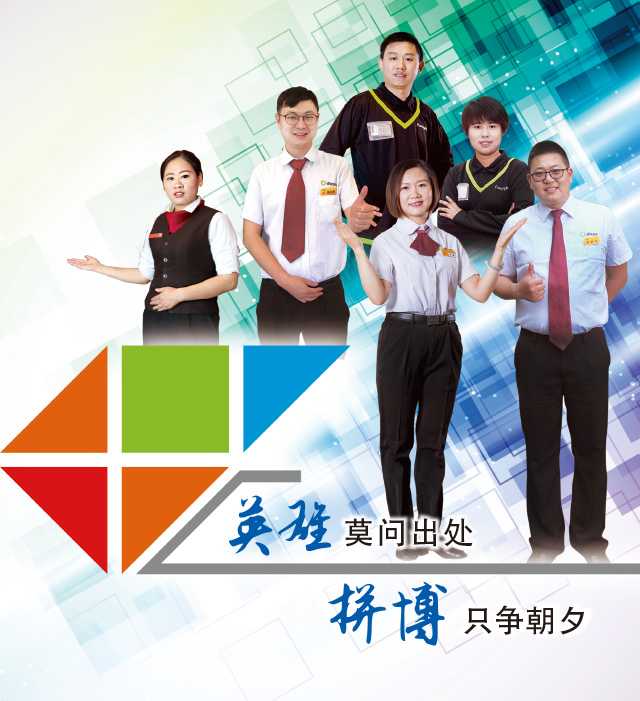
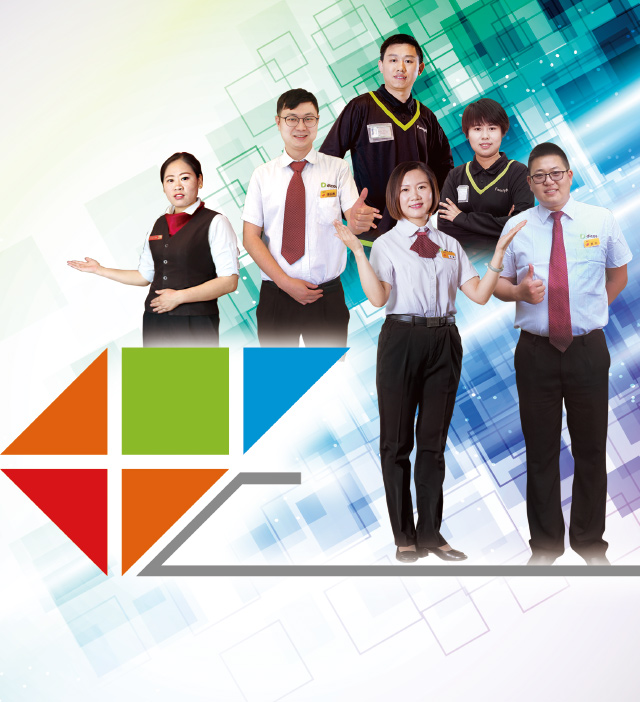
完成修改意见(关爱--没给到修改稿)

diff --git a/1-7.html b/1-7.html
@@ -7,14 +7,31 @@
                 </div>
                 <div class="slide_8">
                     <div class="cont">
-                        <img src="./images/slide_9_top_cont_2.jpg">
-                        <!-- <div class="cont_btm">
+                        <img src="./images/slide_9_top_cont_4.jpg">
+                        <div class="cont_btm">
                             <img src="images/slide8_cont_top_2.png" style="display:block;text-indent:0;margin:10px 0;" alt="" />
                              <p>“你知道公司为什么会推荐你做采访吗？”“我最近没惹是生非啊，挺太平的。可能是因为3月份尊享卡办得比较好，每周三疯狂日一天最少办20多张，最多有40来张。”让人忍俊不禁的苗翠平是个不折不扣的乐观主义，在她的世界，一切都很简单：工作就是图个开心，公司需要什么她做好传达，员工帮她实现，做不到第一也不能拖后腿，尽力就好。生活上最大的慰藉就是父母身体健康、儿子快乐成长。</p>
-                        </div> -->
+                        </div>
                     </div>
                 </div>
+                <div class="cont_1 cont_1_">
+                    <p class="slide_9_title bac_blue" style="background:#87a7c3;width:55%;">放不下的“破店”</p>
+                    <p class="slide_9_text">
+                        在别人眼中，葛洲坝门店是个“破店”，不但窝在商务楼里，而且租金高得惊人，不熟悉的人怎会知道在这片层层幢幢的商务楼里藏着一个全家。2010年，当翠平还是1字打头的年龄便加入了全家,后来有机会往公司内部晋升，“可是那时年轻气盛，又很情绪化，自己都没办法控制自己，怎能领导别人呢？”翠平说以自己风里火里的性格不适合在公司发展，这才选择了加盟。
+                    </p>
+                    <p class="slide_9_text">
+                        “加盟第一年，还没有收心，反正是一人吃好全家吃饱，挣多少就花多少，也没很大的责任心，可能是之前在直营店里做了几年教育训练店长，好日子过惯了。”加盟后的第二年，因为结婚生子，翠平瞬间像换了个人似的，她意识到背后有个家庭需要担起责任，于是就拉了她先生胡东延也加入全家，后来复数第二家店后请他负责看管另一家门店。不管外人怎样看待，翠平始终对门店怀有深厚的感情，“平均每天来客数1300左右，基本是在商务楼上班的顾客。日积月累下来，他们已经养成了习惯，一日两餐再加下午茶，都会来全家。所以很多人已经像 朋友那般熟悉了。”
+                    </p>
+                    <p class="slide_9_text">
+                        葛洲坝店比较特殊，早午尖峰非常繁忙，晚上又很清闲。又因为地处办公楼内，大楼空调一到晚上5、6点就关闭了，到了夏天，室温可达40度以上。由于没有悬挂外机的地方，店里无法安装空调。翠平唯一能做的就是放几个电扇，然后一箱箱地买饮料给晚班店员消暑解渴。“和同事们都很有默契，有的跟我快3年了，还有兼职学生，她每年寒暑假、业余时间都来实习。前些天我还在跟主管说，希望合作报酬能稳定下去，那就可以给大家涨工资啦。” 
+                    </p>
+                    <p class="slide_9_text slide_9_text_hidden">
+                        当我质疑脸庞还略显稚嫩的翠平以她火爆的个性，如何在服务行业立足？她笑着说道：“我的脾气这几年已经改好了很多，可能是因为有了孩子，再加上感觉自己赶不上父母年迈的速度，变得成熟了许多。<img src="images/slide_9_top_cont_5.jpg" class="slide_9_top_cont_5" alt="" />做这个行业，如果不是这么没心没肺的，很难做下去。有时碰到顾客骂员工，可以骂上十几分钟，她们又不能回嘴，只能躲到后场来哭。”这个时候，翠平会买杯奶茶来安慰员工，和员工们讲，客人骂你们，你们就到后场来骂她，发泄出来就好。
+                        
+                    </p>
+                </div>
                 <div class="cont_1">
+                    <img src="./images/slide_9_top_cont_2.jpg">
                     <p class="slide_9_title bac_blue" style="background:#87a7c3;width:55%;">提得起的幸福</p>
                     <img src="images/slide_9_top_cont_2.png" class="slide_9_top_cont_3_" alt="" />
                     <p class="slide_9_text" style="margin-top:-30px;">
@@ -29,19 +46,6 @@
                     <p class="slide_9_text">
                         对翠平来说，除了工作，所有时间都扑在孩子身上了，去哪里都要带着，和员工们的团队建设也变成了家庭聚会。她希望等全家加盟店数封顶后，有朝一日可以加盟德克士，“想归想，不过眼前先做好目前的三家店。自己努力多少就会得到怎样的成绩，这是成正比的。”
                     </p>
-                    <img src="images/slide_9_top_cont_3.jpg" alt="" />
-                    <p class="slide_9_title bac_blue" style="background:#87a7c3;">关于工作伙伴：将心比心</p>
-                    <p class="slide_9_text">
-                        在我看来，员工在餐厅上班其实都是非常单纯的，多站在他们的角度沟通，了解他们需求，简单归纳就是四个字：将心比心。年轻的员工伙伴对学习新知识获取经验感兴趣，那我就多放权给他们做一些简单的餐厅管理工作，让他们有参与满足感。一些内场的大哥大姐们需要养家糊口，经济压力较大，我就多给班，保证他们的薪资有竞争力。这样自然而然，大家各司其职，管理起来、沟通起来就很顺畅了。
-                    </p>
-                    <p class="slide_9_text">
-                        以前我在直营系统，那是一份职业，平时的接人待物都是从上而下执行，没有太多自己的想法。现在内创了，便拥有了自己一份小小的事业，董事长说，当老板者强，我也是在签下离职报告的那一刻起，才愈发体会这句话的深意。有许多创造性的想法，都会不打折扣地用心行动，更何况餐厅近30人的团队要发展，这本身就是一份沉甸甸的责任。在这责任面前，吾将上下而求索。
-                    </p>
-                    <p class="slide_9_text">
-                        一家餐厅的氛围，员工伙伴们的工作状态全取决于餐厅的店长，例如在“卡友日，节假日”等需要挑战高日商时，怎样将餐厅伙伴工作状态调整最佳状态是餐厅店长业务水平的最基本体现。
-                    </p>
-                    
-                    
                 </div>
             </div>
 <!--             <div class="bot swiper-slide swiper-slide-s">

diff --git a/1-9-1.html b/1-9-1.html
@@ -52,9 +52,59 @@
                         <p class="slide_11_text">
                            每一个特殊的节日，我要求自己必须力所能及为每一位员工送上节日祝福，十五的元宵、中秋的月饼、端午的粽子、冬至的饺子、年三十的团圆饭、圣诞的平安果，我都会精心准备。还有必不可少的定期季活动，都是增强团队凝聚力的好办法。
                         </p>
-                    
-                    
                 </div>
+
+                <!-- 合并部分 -->
+                <style type="text/css">
+                    .slide_11 .cont_1 .slide_11_title{
+                        width:86%;
+                    }
+                </style>
+                <div class="cont_1 cont_2">
+                    <img src="images/slide_12_2_1.jpg" alt="" /> 
+    
+                    <div class="box7">
+                        <p class="slide_11_title slide_11_title1 bac_blue3" style="margin-top:0;">有家人帮你一起打理门店吗？ </p>
+                        <p class="slide_11_text">
+                            员创至今主要是我一人在独立经营，我团队的成员们在鼎力协助我。当初员创的初始资金还是用积攒的购房首付款支付的，想趁年轻多折腾折腾，所以当自己手头宽裕些，我又员创了第二家餐厅，所以目前我还没能买房。
+                        </p>
+                        <p class="slide_11_text">
+                            父母年迈且身体不是很好，目前还生活在老家，我呢，现在也还是单身，所以就只能靠自己喽。当然，我也希望通过自己的努力，能够为家人创造更好的生活条件，到时候一家人可以在西安生活，他们能在精神上支持我，在生活上帮助我，那些后顾之忧解决了，我工作肯定更带劲、更卖力。
+                        </p>
+                    </div> 
+                    <p class="slide_11_title slide_11_title1 bac_blue3" style="width:;">与竞争对手相比，我们有哪些独特之处？</p>
+                    <div class="box8">
+                        <p class="slide_11_text">
+                           由于肯德基进入陕西市场早于德克士，所以肯德基的店数较我们还是有优势的，而相较麦当劳，德克士的店数优势就比较明显了，我们是他们的3倍还多。德克士在陕西的知名度还是比较高的，尤其在火车站，我们开设了4家餐厅，让德克士成为家喻户晓的品牌。
+                        </p>
+                        <p class="slide_11_text">
+                           单店特许加盟也是德克士的一大特色，加盟政策德克士更胜一筹。肯德基的加盟其实就是转让成熟的餐厅，在陕西，麦当劳目前还没有放开加盟，即便区域代理也都还没有。而德克士自1997年进入市场，开辟了一条单店特许加盟的道路，无数品牌竞相模仿。正是这样的单店特许加盟，让集团吸收了很多有资金实力、经营理念正确的合作伙伴，借助他们优势的地缘关系，德克士在许多战略口岸、重要交通枢纽完成了插旗，也是他们和集团一起携手将德克士开遍了中国大地。
+                        </p>
+                        <p class="slide_11_text">
+                           在产品方面，我们的米饭、脆皮炸鸡、鸡排、魔法鸡块、薯条，都成为了竞争对手无法模仿和超越的特色产品。给力的总部行销让德克士的产品品类越来越丰富，也越来越迎合年轻大众群体，“好看、好吃、好玩”，受到了大众的一致好评。为了避免吃货们的审美疲劳，德克士加大了产品的推陈出新，根据季节状况，每月都会上市新品。
+                        </p>
+                    </div>
+                    <p class="slide_11_title slide_11_title1 bac_blue3">是什么让你保持饱满的工作状态？</p>
+                    <p class="slide_11_text">
+                       首先让自己在这个城市立足，解决基本的温饱，可以有尊严地活下去。其次，提高生活品质，为自己、为家人创造更好的生活条件，不需要富足，但要够用，买一间房子，让父母在自己身边可以安享晚年。
+                    </p>
+                    <p class="slide_11_text">
+                       更重要的是，在自己擅长且感兴趣的领域充分调动自己工作的积极性，发挥自己的优势，施展才能，实现人生价值。最后，在自己力所能及的范围里，从点滴做起，帮助那些和我一起打拼的人。
+                    </p>
+                    <p class="slide_11_title slide_11_title1 bac_blue3">为什么会在德克士坚持了这么多年？</p>
+                    <div class="box9">
+                        <p class="slide_11_text">
+                           毕业后我先后经历过几份工作，有了在德克士兼职的经验，总是习惯性地将之作为标杆来比较，“这个工作氛围不好”、“这个没有发展前景”、“这个公司没有人情味”……在几番思量后，决定与德克士再续前缘，于是应聘了公司的储备干部，成为了一名兼职时羡慕的“领导”。在德克士，我接受了各项系统的培训，理论知识、实操以及管理课程，这里有完善的晋升机制和合理的薪酬制度，同事之间真诚、友善，让输在起跑线的孩子也可以参与公平竞争。
+                        </p>
+                        <p class="slide_11_text">
+                           德克士让我提升了专业能力、沟通能力、处理突发事件的能力，也提升了我的数据分析能力和人才培养及组织能力。三年前通过内部竞争，我有幸成为了第一批员工内创人员，从一名打工仔转变成一个“老板”，接触了更多的人、也收获了更多的机会，曾经仰望的董事长现在竟有机会可以与他一起用餐、发送信息，就像做梦一样。
+                        </p>
+                        <p class="slide_11_text">
+                           说到底，德克士培养了我的综合素质和核心竞争力，我找到了施展自己的平台，也可以有能力带一个团队，并成为团队的核心人物，内心获得了极大的满足感和成就感。<img src="images/slide7_2.png" class="slide7_2" alt="">
+                        </p>
+                    </div>
+                </div>
+
             </div>
 <!--             <div class="bot swiper-slide swiper-slide-s">
                 <img src="images/slide_5_bot.jpg" class="slide_5_bot" alt="" />

diff --git a/1-3.html b/1-3.html
@@ -36,7 +36,46 @@
                     <p class="slide_5_text slide_5_text1">
                         因为是特殊通路，门店的品项有局限，想提高日商，必须杀出另一条血路。“有一天中午，新天地的一家餐厅来全家订了30份午餐，向餐厅经理了解后，我发现餐厅员工每天都需要到外面解决午餐，自然而然，我和他们达成了提供外卖的合作。”这一送就是两年多，每天60份外卖，逢年过节、刮风下雨照送不误，所有外送都是杨军和爸爸亲力亲为，日商一下子提高到了2万多。“这些都是从店里走出去额外做的日商。” 
                     </p>
-
+                <div class="slide_6">
+                    
+                    <div class="cont">
+                        <img src="images/slide_6_bac.jpg" alt="" />
+                    </div>
+                    <div class="swiper-slide slide_7" data-hash="">
+                        <div class="" id="">
+                            <div class="">
+                                <div class="">
+                                    <div class="cont_1">
+                                        <p class="slide_7_title bac_green">商场门店里的“卡王”和“卡后”</p>
+                                        <p class="slide_7_text">
+                                            相比地铁站店，杨军的另一家位于商场的门店也比较特殊，跟着商场的营业时间早10点到晚10点营业。“虽然营业时间短，但是日月光商场店的日商是我加盟的这几家店里最好的，因为这家店铺基本上以吃的为主，附近工作的白领经常会来。而且流行的东西都很好售卖，果汁饮料、酸奶等产品特别受顾客的喜欢。”杨军每天呆的时间最长的就是这家门店，“比如冰淇淋，即使在冬季每天都能卖到100支，天气好的话可以卖到300支一天。最新的冰沙也卖得不错，由于限量，很容易卖完，很多顾客还特地来找冰沙。”
+                                        </p>
+                                        <p class="slide_7_text">
+                                            在门店的柜台一侧，摆放着几十张尊享卡，还有一些小海报分解说明购买100元尊享卡可以有哪些得益。“以前觉得每天推尊享卡，哪里会有这么多人办理呢？”一开始，杨军对尊享卡的推动并没有抱太大的信心，“后来慢慢发现尊享卡对日商拉动很大，4月份平均18张一天，到周三办理数量更多。你想想，一天来客数1000的话，只要想办法，总有会成功的。我们还在尊享卡的海报位置做了特别设置，是顾客选择商品的必经之路。”
+                                        </p>
+                                        <p class="slide_7_text">
+                                            刚开始，店铺的尊享卡都是杨军一手包办，后来他慢慢教会了员工一些技巧，现在店里有员工被戏称为“卡王”和“卡后”，最好的时候每个人一天可以办20张。杨军在店铺营造的氛围就是让员工感到尊享卡对店铺日商成长影响很大，对“卡王”和“卡后”也给予相应的奖励。
+                                        </p>
+                                        <p class="slide_7_title bac_green">家人和员工，光鲜背后的支柱</p>
+                                        <p class="slide_7_text">
+                                            <img src="images/slide_7_1.png" class="slide_7_1" alt="" />
+                                            算起来，杨军加盟全家已有9年多，“最苦的时候是过年期间，人手紧缺，都是自己一个人扛下来。现在熬过来了，全家总动员，我老婆、我弟弟都来帮忙管店。爸爸现在退居二线，帮我做一些银行入账的事，家人是我背后永远的支柱。”人员流动大也曾是杨军最大的困扰，“刚开始我在员工管理上经验不够，经常有做了几个月就辞职的员工，后来我总结经验，也看了一些管理书，发现应该切身了解员工的一些难处，根据员工情况做相应的排班调整。员工是老板最的一些难处，根据员工情况做相应的排班调整。员工是老板最大的财富，便利店看着光鲜有趣，其实背后需要员工非常细心，如何培养、留住员工，老板的责任重大。”
+                                        </p>
+                                        <p class="slide_7_text">
+                                            每加盟一家新店，意味着又跨上一个台阶，杨军的目标并未止于5家门店。他现下的重点是在管理角色上花更多精力，管理好店铺，从店内走到店外。也要花更多心思在员工沟通上，让店铺能够稳定运转。
+                                        </p>
+                                        <p class="slide_7_text">
+                                            “从刚开始抱着试试看的心态，至今9年多了，加盟全家，对自己改变真的很大。从对便利店的一无所知，到现在也见证了全家品牌的发展和布局，从最初的明星产品关东煮和现磨豆浆，到现在湃客咖啡和冰沙杯，商品越来越多元化，让我学习到很多。我想通过自己的经历，告诉那些想创业的年轻人，全家是一个非常好的平台，还有无论做什么事，坚持、认真、拥有良好的心态至关重要。”作为最早在上海加盟5家店，又是第一个加盟地铁站店的加盟伙伴，杨军的内心始终保持热情，充满希望。<img src="images/slide7_2.png" class="slide7_2" alt="" />
+                                        </p>
+                                        <img src="images/slide_7_top_bac.png" class="slide_7_top_bac" alt="" />
+                                        <img src="images/slide_7_top_bac1.png" class="slide_7_top_bac1" alt="" />
+                                    </div>
+                                </div>
+                            
+                            </div>
+                        </div>
+                    </div>
+                </div>
 
 
                 </div>

diff --git a/1-8.html b/1-8.html
@@ -6,7 +6,8 @@
                     <img src="images/fmgs_logo.png" alt="" />
                 </div>
                 <div class="cont">
-                    <img src="images/slide_10_top.jpg"><!-- 
+                    <img src="images/slide_10_top.jpg">
+                    <img src="images/slide_9_top_cont_3.jpg" alt="" /><!-- 
                     <div class="cont_btm">
                          <p class="slide_10_text">
                           钱春霞个子小小的，却有一双与身高不符的大手。她常对人说，个子不高是因为12岁就从中学辍学，正是长个子的时候，她却常常挑着两大桶水在田里做农活、包揽家中的家务，而一双大手也是因为这样而造成的。16岁时，春霞离开家乡来到上海打工，先找了份送快递的工作，后来她的小妹也到上海找工作，春霞就带着她一起到全家应聘，结果两人都被录取了。
@@ -18,7 +19,19 @@
                                 <img src="images/slide_11_img1.png" alt="" />
                             </div> -->
                             <div class="slide_11_text_ slide_11_text_bot">
-                                <p class="slide_11_title bac_blue1">关于家人：鼎力相助</p>‘
+                                <p class="slide_11_title bac_blue1 slide_bar_width">关于工作伙伴：将心比心</p>
+                                <div class="bac_box4">
+                                    <p class="slide_11_text">
+                                        在我看来，员工在餐厅上班其实都是非常单纯的，多站在他们的角度沟通，了解他们需求，简单归纳就是四个字：将心比心。年轻的员工伙伴对学习新知识获取经验感兴趣，那我就多放权给他们做一些简单的餐厅管理工作，让他们有参与满足感。一些内场的大哥大姐们需要养家糊口，经济压力较大，我就多给班，保证他们的薪资有竞争力。这样自然而然，大家各司其职，管理起来、沟通起来就很顺畅了。
+                                    </p>
+                                    <p class="slide_11_text">
+                                        以前我在直营系统，那是一份职业，平时的接人待物都是从上而下执行，没有太多自己的想法。现在内创了，便拥有了自己一份小小的事业，董事长说，当老板者强，我也是在签下离职报告的那一刻起，才愈发体会这句话的深意。有许多创造性的想法，都会不打折扣地用心行动，更何况餐厅近30人的团队要发展，这本身就是一份沉甸甸的责任。在这责任面前，吾将上下而求索。
+                                    </p>
+                                    <p class="slide_11_text">
+                                        一家餐厅的氛围，员工伙伴们的工作状态全取决于餐厅的店长，例如在“卡友日，节假日”等需要挑战高日商时，怎样将餐厅伙伴工作状态调整最佳状态是餐厅店长业务水平的最基本体现。
+                                    </p>
+                                </div>
+                                <p class="slide_11_title bac_blue1 slide_bar_width">关于家人：鼎力相助</p>‘
                                 <!-- 有背景图 -->
                                 <div class="bac_box">
                                     <p class="slide_11_text">
@@ -29,7 +42,7 @@
                                     </p>
                                 </div>
                                 <div class="bac_box1">
-                                    <p class="slide_11_title bac_blue1">关于提升业绩：会员、外送和营业时间</p>
+                                    <p class="slide_11_title bac_blue1 slide_bar_width">关于提升业绩：会员、外送和营业时间</p>
                                     <p class="slide_11_text">
                                         首先必须得说的是董事长在巡回时所讲到的“11511”，我们梨园餐厅截至5月已办理2.2万张集享卡，会员刷卡业绩占到六成以上，会员刷卡TC占比也接近60%，当月的兑分比例近70%，人均购买5元。以上五项指标的达成是我们餐厅累计至4月成长近17%最有利的保证。
                                     </p>
@@ -40,7 +53,7 @@
                                         最后是深耕时段经营。发掘商圈的机会，并付诸行动。我们梨园餐厅周围都是大型社区，社区居住的人们大多数是在北京城里上班，晚上才回到梨园居住。晚餐的业绩明显要比午餐业绩好，餐厅打烊后还有顾客陆续进店询问点餐，所以我认为夜宵是有机会的，于是向公司申请将营业时间由晚上22点延长至凌晨1点，效果立竿见影，现在夜宵业绩每天稳定在3千元左右。
                                     </p>
                                 </div>
-                                <p class="slide_11_title bac_blue1">关于人生选择：常立志不如立长志</p>
+                                <p class="slide_11_title bac_blue1 slide_bar_width">关于人生选择：常立志不如立长志</p>
                                 <p class="slide_11_text">
                                     我从小比较调皮捣蛋，不太安分守己。读了半年中专就辍学，15岁那年还没拿到身份证就开始出来闯荡社会，换了很多份工作，走遍半个中国。18岁那年在深圳的公交车上看书读到了这样一句话：常立志，不如立长志。对我的触动很大。于是2008年只身一人来到北京，应聘上了康师傅私房牛肉面南礼士路餐厅的服务员，计划着一边工作，一边学习自考中国人民大学的新闻学。
                                 </p>

diff --git a/index.html b/index.html
@@ -54,6 +54,8 @@
 				<img src="images/logo_7.png" class="ani logo_ logo_7" swiper-animate-effect="bounceInDown" swiper-animate-duration="1s" swiper-animate-delay="1.2s" alt="" />
 				<img src="images/1_logo.png"  alt="" />
 			</div>
+			<img src="images/tt1.png" class="ani tt1" swiper-animate-effect="bounceInRight" swiper-animate-duration="1s" swiper-animate-delay="1.4s" alt="" />
+			<img src="images/tt2.png" class="ani tt2" swiper-animate-effect="bounceInRight" swiper-animate-duration="1s" swiper-animate-delay="1.6s" alt="" />
 		    <img src="images/1_bot.jpg" class="bot_1" alt="" />
 		</div>
 		<!-- 首页 -->
@@ -120,20 +122,20 @@ var pageindex = new Array(
 	// "1-1.html",
 	// "1-2.html", 
 	"1-3.html",
-	"1-4.html",
+	// "1-4.html",
 	// "1-5.html",	
 	// "1-6.html",	
 	"1-7.html",	
 	"1-8.html",	
 	"1-9.html",
 	"1-9-1.html",//封面故事新增页面
-	"1-9-2.html",//封面故事新增页面
+	// "1-9-2.html",//封面故事新增页面
 	"1-9-3.html",//封面故事新增页面
 	"2-1.html",
 	"2-2.html",
 	"2-3.html",
 	"2-4.html",
-	"2-5.html",
+	// "2-5.html",
 	"2-6.html",
 	"3-1.html",
 	"3-2.html",
@@ -360,8 +362,8 @@ window.addEventListener('load', function() {
 
 		    wx.ready(function () {
 		        setupWeixinShare({
-		            title: '授人以鱼不如授人以渔，内创改变了她们', // 分享标题
-		            desc: '顶新国际集团', // 分享描述授人以鱼不如授人以渔，内创改变了她们
+		            title: '英雄莫问出处，拼搏只争朝夕', // 分享标题
+		            desc: '', // 分享描述授人以鱼不如授人以渔，内创改变了她们
 		            link: 'http://www.zgjrzj.com/dingxinh5/index.html', // 分享链接
 		            imgUrl: 'http://www.zgjrzj.com/dingxinh5/images/1_bot.jpg', // 分享图标
 		            type: '', // 分享类型,music、video或link，不填默认为link

diff --git a/2-4.html b/2-4.html
@@ -9,7 +9,7 @@
                     <img src="images/slide_15_img1.jpg" class="slide_15_img1" alt="" />
                     <img src="images/slide_15_img2.jpg" class="slide_15_img1" alt="" />
                     <p class="slide15_text bac_green2" style="margin:0 0 10px 0;padding:30px 30px 15px 30px;margin-top:-20px;position:relative;">
-                        丰富的鲜食、商品、服务在商品展上纷纷亮相，新品数量多达300余项，健康、新鲜、有营养，成为全家春夏商品新流行。从鲜食到商品到服务，“Always New & Fresh ”深深融入全家的基因中。Always New & Fresh 离不开合作厂商和背后供应链合作伙伴的支持。怀揣匠人之心，极致、专业、用心是全家不变的追求，工匠精神是始终不变的指引！
+                        5月10日晚，在盛大的中国连锁经营协会便利店大会的颁奖礼上，中国全家FamilyMart荣膺“2017年中国便利店人气加盟品牌奖”和“2017年中国便利店创新奖——尊享卡‘大会员体系’的生态模式”。这标志着全家在便利店领域的行业标杆地位。
                     </p>
                     <p class="slide15_text">
                         当天上午，全家总经理朱宏涛以“全家会员体系经营的尊享价值”为主题，向千位同行及相关产业链的行家展示了全家会员的发展历程。从“进、活、黏、值”的初试啼声到疯狂全家日、疯狂星期三的“造节”，再到集享卡的尊享版诞生，全家会员价值和贡献一浪高过一浪。“谈新零售不如谈新本业，”朱总说道，“全家的核心就是由企业的商品力、营业力、选址力、加盟力和后勤供应力来撬动会员的经营力。”现场有过半的同行表示连续两年聆听朱总的演讲，受益匪浅。

diff --git a/3-1.html b/3-1.html
@@ -20,7 +20,7 @@
                         华东地区有近350条车辆配送路线，每年5月至8月是一年中最繁忙的时候，全家门店销货量大、仓储的出货量大，车队也是跑得最火热的时候。进入夏季，为了保证食安，对车辆的温度要求越来越高，每周DC（分发中心）、食安部、运输部等各部门都会去门店夜巡，由于常温、冷藏冷冻的货物集中在晚上7点到第二日凌晨4点配送，所以嘉磊经常安排在周五进行门店夜巡，每次跑7、8家门店，往往从晚上8点一直到次日凌晨4点才能收工。
                     </p>
                     <p class="slide18_text">
-                        短三年，嘉磊已参与建设了两个新仓。先是跟着常温主管开了松江常温仓，去年又独立开设了杭州中转仓，今年4月刚刚回到上海，“回想起来，对于一个应届生来说，能够参与每一个环节的操作，了解每笔费用的发生经过，我觉得这是在其他任何公司都学不到的，非常有成就感。”<img src="images/slide7_2.png" class="slide7_2" alt="">
+                        短短三年，嘉磊已参与建设了两个新仓。先是跟着常温主管开了松江常温仓，去年又独立开设了杭州中转仓，今年4月刚刚回到上海，“回想起来，对于一个应届生来说，能够参与每一个环节的操作，了解每笔费用的发生经过，我觉得这是在其他任何公司都学不到的，非常有成就感。”<img src="images/slide7_2.png" class="slide7_2" alt="">
                     </p>
                 </div>
             </div>

diff --git a/style/dxh5.css b/style/dxh5.css
@@ -340,8 +340,7 @@ body .margin_top_10{
 }
 /*slide21*/
 .slide_21_img1, .slide_21_img10{
-    width: 90.625%;
-    margin-left: 30px;
+    width: 100%;
 }
 .slide21_text{
     margin: 10px 30px;
@@ -566,7 +565,7 @@ body .margin_top_10{
 .slide_5 .cont_1{
   background:url("../images/slide_5_bac.png") no-repeat;
   background-size:22.6526% auto;
-  padding-bottom:50px;
+  /*padding-bottom:50px;*/
   background-position: 90% 98%;
 }
 .slide_4 .cont1{
@@ -1041,10 +1040,10 @@ margin-top:-30px;
     background-position:left 76%;
 }
 .box9{
-    background:url("../images/slide_12_2_3.jpg") no-repeat;
+    /*background:url("../images/slide_12_2_3.jpg") no-repeat;
     background-size:36.25% auto;
     background-position:right bottom;
-    padding-bottom:40px;
+    padding-bottom:40px;*/
 }
 .nav_bar_bot{
     position:absolute;
@@ -1184,4 +1183,41 @@ margin-top:-30px;
 }
 .slide_9_top_cont_3_{
     margin-top:-30px;
+}
+.slide_9 .cont_1_{
+    background:#fff;
+    padding-bottom:0;
+}
+.slide_9 .cont_1 .slide_9_text_hidden{
+    margin:0;
+    padding:0 30px;
+    overflow:hidden;
+}
+.slide_9_top_cont_5{
+    width:68.312%;
+    float:right;
+    margin-right:-30px;
+}
+.bac_box4{
+    padding-bottom:30px;
+    background:url("../images/slide_11_bac.png") no-repeat;
+    background-size:22.81% auto;
+    background-position:88% 100%;
+}
+.slide_11 .cont_1 .slide_bar_width{
+    width:87%;
+}
+.tt1{
+    position:absolute;
+    left: 34.78%;
+    top: 0;
+    margin-top: 125%;
+    width: 42.53%;
+}
+.tt2{
+    position: absolute;
+    left: 50.78%;
+    top: 0;
+    margin-top: 140%;
+    width: 42.53%;
 }

diff --git a/0.1.html b/0.1.html
@@ -9,5 +9,7 @@
         <img src="images/logo_7.png" class="ani logo_ logo_7" swiper-animate-effect="bounceInDown" swiper-animate-duration="1s" swiper-animate-delay="1.2s" alt="" />
         <img src="images/1_logo.png"  alt="" />
     </div>
+    <img src="images/tt1.png" class="ani tt1" swiper-animate-effect="bounceInRight" swiper-animate-duration="1s" swiper-animate-delay="1.4s" alt="" />
+    <img src="images/tt2.png" class="ani tt2" swiper-animate-effect="bounceInRight" swiper-animate-duration="1s" swiper-animate-delay="1.6s" alt="" />
     <img src="images/1_bot.jpg" class="bot_1" alt="" />
 </div>

diff --git a/1-9-2.html b/1-9-2.html
@@ -53,7 +53,6 @@
                            说到底，德克士培养了我的综合素质和核心竞争力，我找到了施展自己的平台，也可以有能力带一个团队，并成为团队的核心人物，内心获得了极大的满足感和成就感。<img src="images/slide7_2.png" class="slide7_2" alt="">
                         </p>
                     </div>
-                    
                 </div>
             </div>
 <!--             <div class="bot swiper-slide swiper-slide-s">
